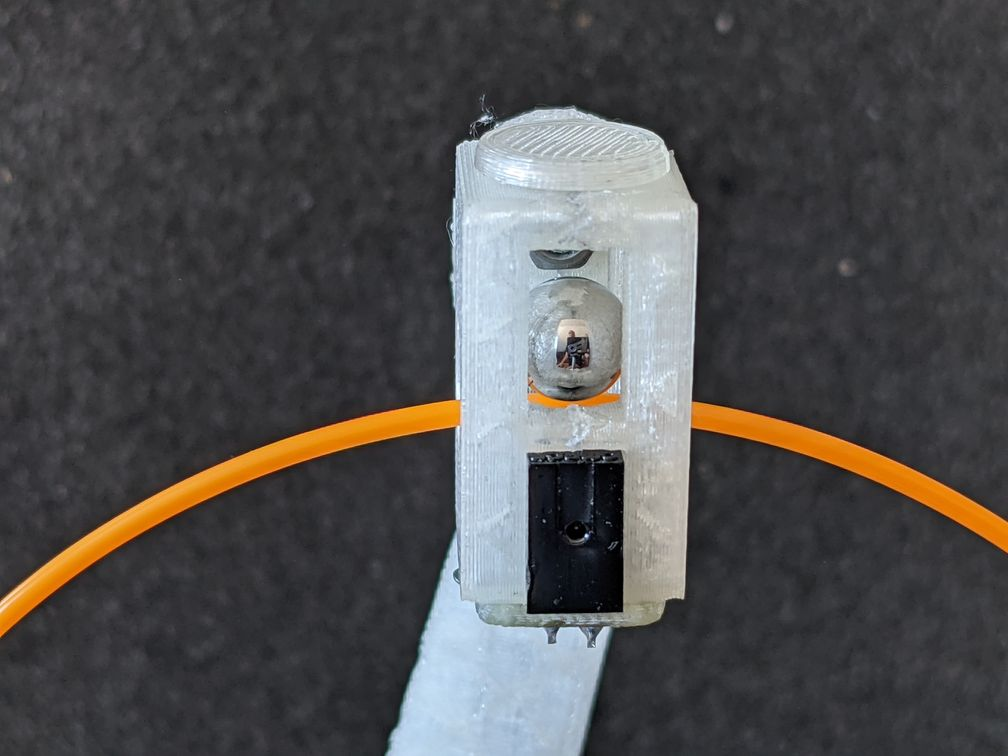
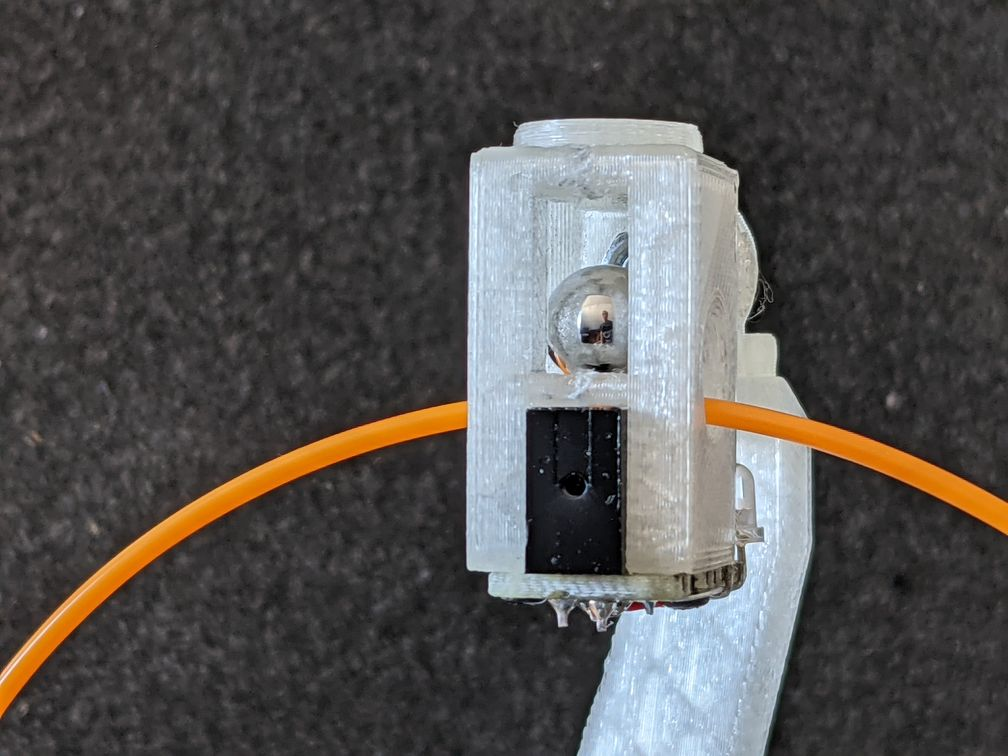
edit

diff --git a/README.md b/README.md
@@ -23,20 +23,58 @@ runout
 ## Views
 
 ### Mounted sensor
-<img src="images/view_01.jpg" width=50%>
-
+<img src="images/view_01.jpg" width=640>
 <br>
 <br>
 
-### Slightly silted sensor   
-to follow filament tension the sensor can be tilted, if smoothly printed a tilt angel up to 85 degree is possible
-![Image](images/view_02.jpg)
+### Slightly tilted
+to follow filament tension the sensor can be tilted, if smoothly printed a tilt angel up to 85 degree is possible   
+<img src="images/view_02.jpg" width=640>
+<br>
+<br>
+
+### Mounting bracket
+a mounting bracket allows adjusting tilt and top angle   
+<img src="images/view_03.jpg" width=640>
+<br>
+<br>
+
+### Steel ball and Light barrier
+<img src="images/view_04.jpg" width=640>
 <br>
 <br>
 
 ## Renders
 
+### Front
+<img src="images/render_01.png" width=640>
+<br>
+<br>
+
+### Side
+<img src="images/render_02.png" width=640>
+<br>
+<br>
+
+### Light barrier cut in half
+<img src="images/render_03.png" width=640>
+<br>
+<br>
+
+### Steel ball above filament
+<img src="images/render_04.png" width=640>
+<br>
+<br>
+
+### Steel ball dropped
+<img src="images/render_05.png" width=640>
+<br>
+<br>
+
 ## Schematic
+<img src="images/schematic.png" width=640>
+<br>
+<br>
 
 <br>
 <br>
